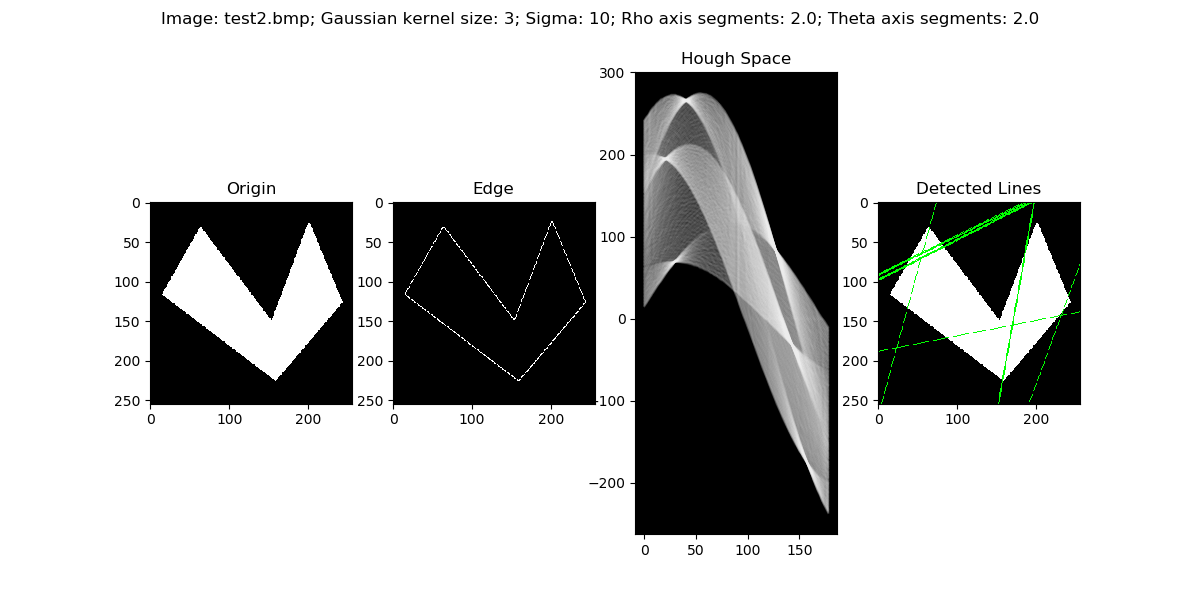
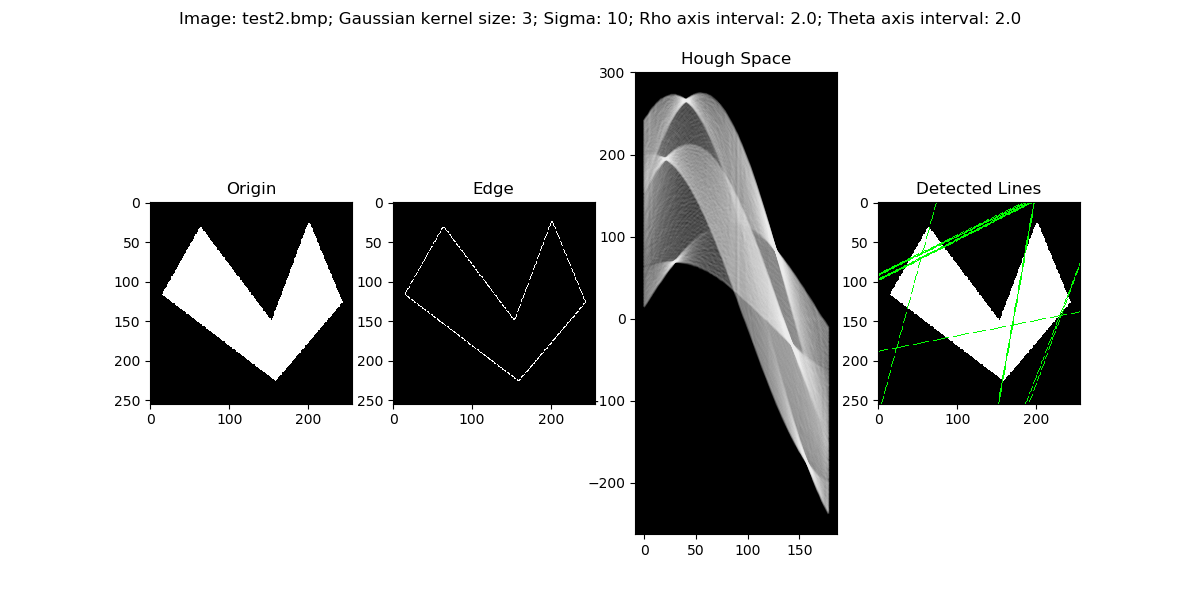
not sure correctness but seems done

Changed region(s): [[0.1233, 0.0, 0.6475, 0.06], [0.7708, 0.0, 0.8633, 0.06]]

diff --git a/HW3/CS415_HW3.py b/HW3/CS415_HW3.py
@@ -31,7 +31,7 @@ def line_detection_hough_transform(image_o, img, sz, sig, rho_int, theta_int, im
     accumulator = np.zeros((len(rho_range), len(theta_range)))
 
     title = 'Image: ' + str(img_path) + '; Gaussian kernel size: ' + str(sz) + '; Sigma: ' + str(sig) + \
-            '; Rho axis segments: ' + str(rho_int) + '; Theta axis segments: ' + str(theta_int)
+            '; Rho axis interval: ' + str(rho_int) + '; Theta axis interval: ' + str(theta_int)
     file_name = 'Results/Image_' + str(img_path).partition('.')[0] + '_Sig_' + str(sig) + '_Int_' \
                 + str(rho_int) + '.png'
 
@@ -60,7 +60,7 @@ def line_detection_hough_transform(image_o, img, sz, sig, rho_int, theta_int, im
 
     # Threshold some high values then draw the line
     # As for this part, after I tried some threshold values, 50 might be a good one
-    edges = np.where(accumulator > 50)
+    edges = np.where(accumulator > 45)
     positions = list(zip(edges[0], edges[1]))
 
     # Use line equation to draw detected line on an original image
@@ -100,9 +100,9 @@ if __name__ == '__main__':
     image = cv2.GaussianBlur(image, (kernel_size, kernel_size), sigma)
 
     # Apply Canny edge detector to the image
-    image = cv2.Canny(image, 10, 30)
+    image = cv2.Canny(image, 25, 75)
 
     # Apply line detection by hough transform
-    rho_interval = float(input('Enter a value for rho axis segments in hough space: '))
-    theta_interval = float(input('Enter a value for theta axis segments in hough space: '))
+    rho_interval = float(input('Enter a value for rho axis interval in hough space: '))
+    theta_interval = float(input('Enter a value for theta axis interval in hough space: '))
     line_detection_hough_transform(image_origin, image, kernel_size, sigma, rho_interval, theta_interval, imgPath)
